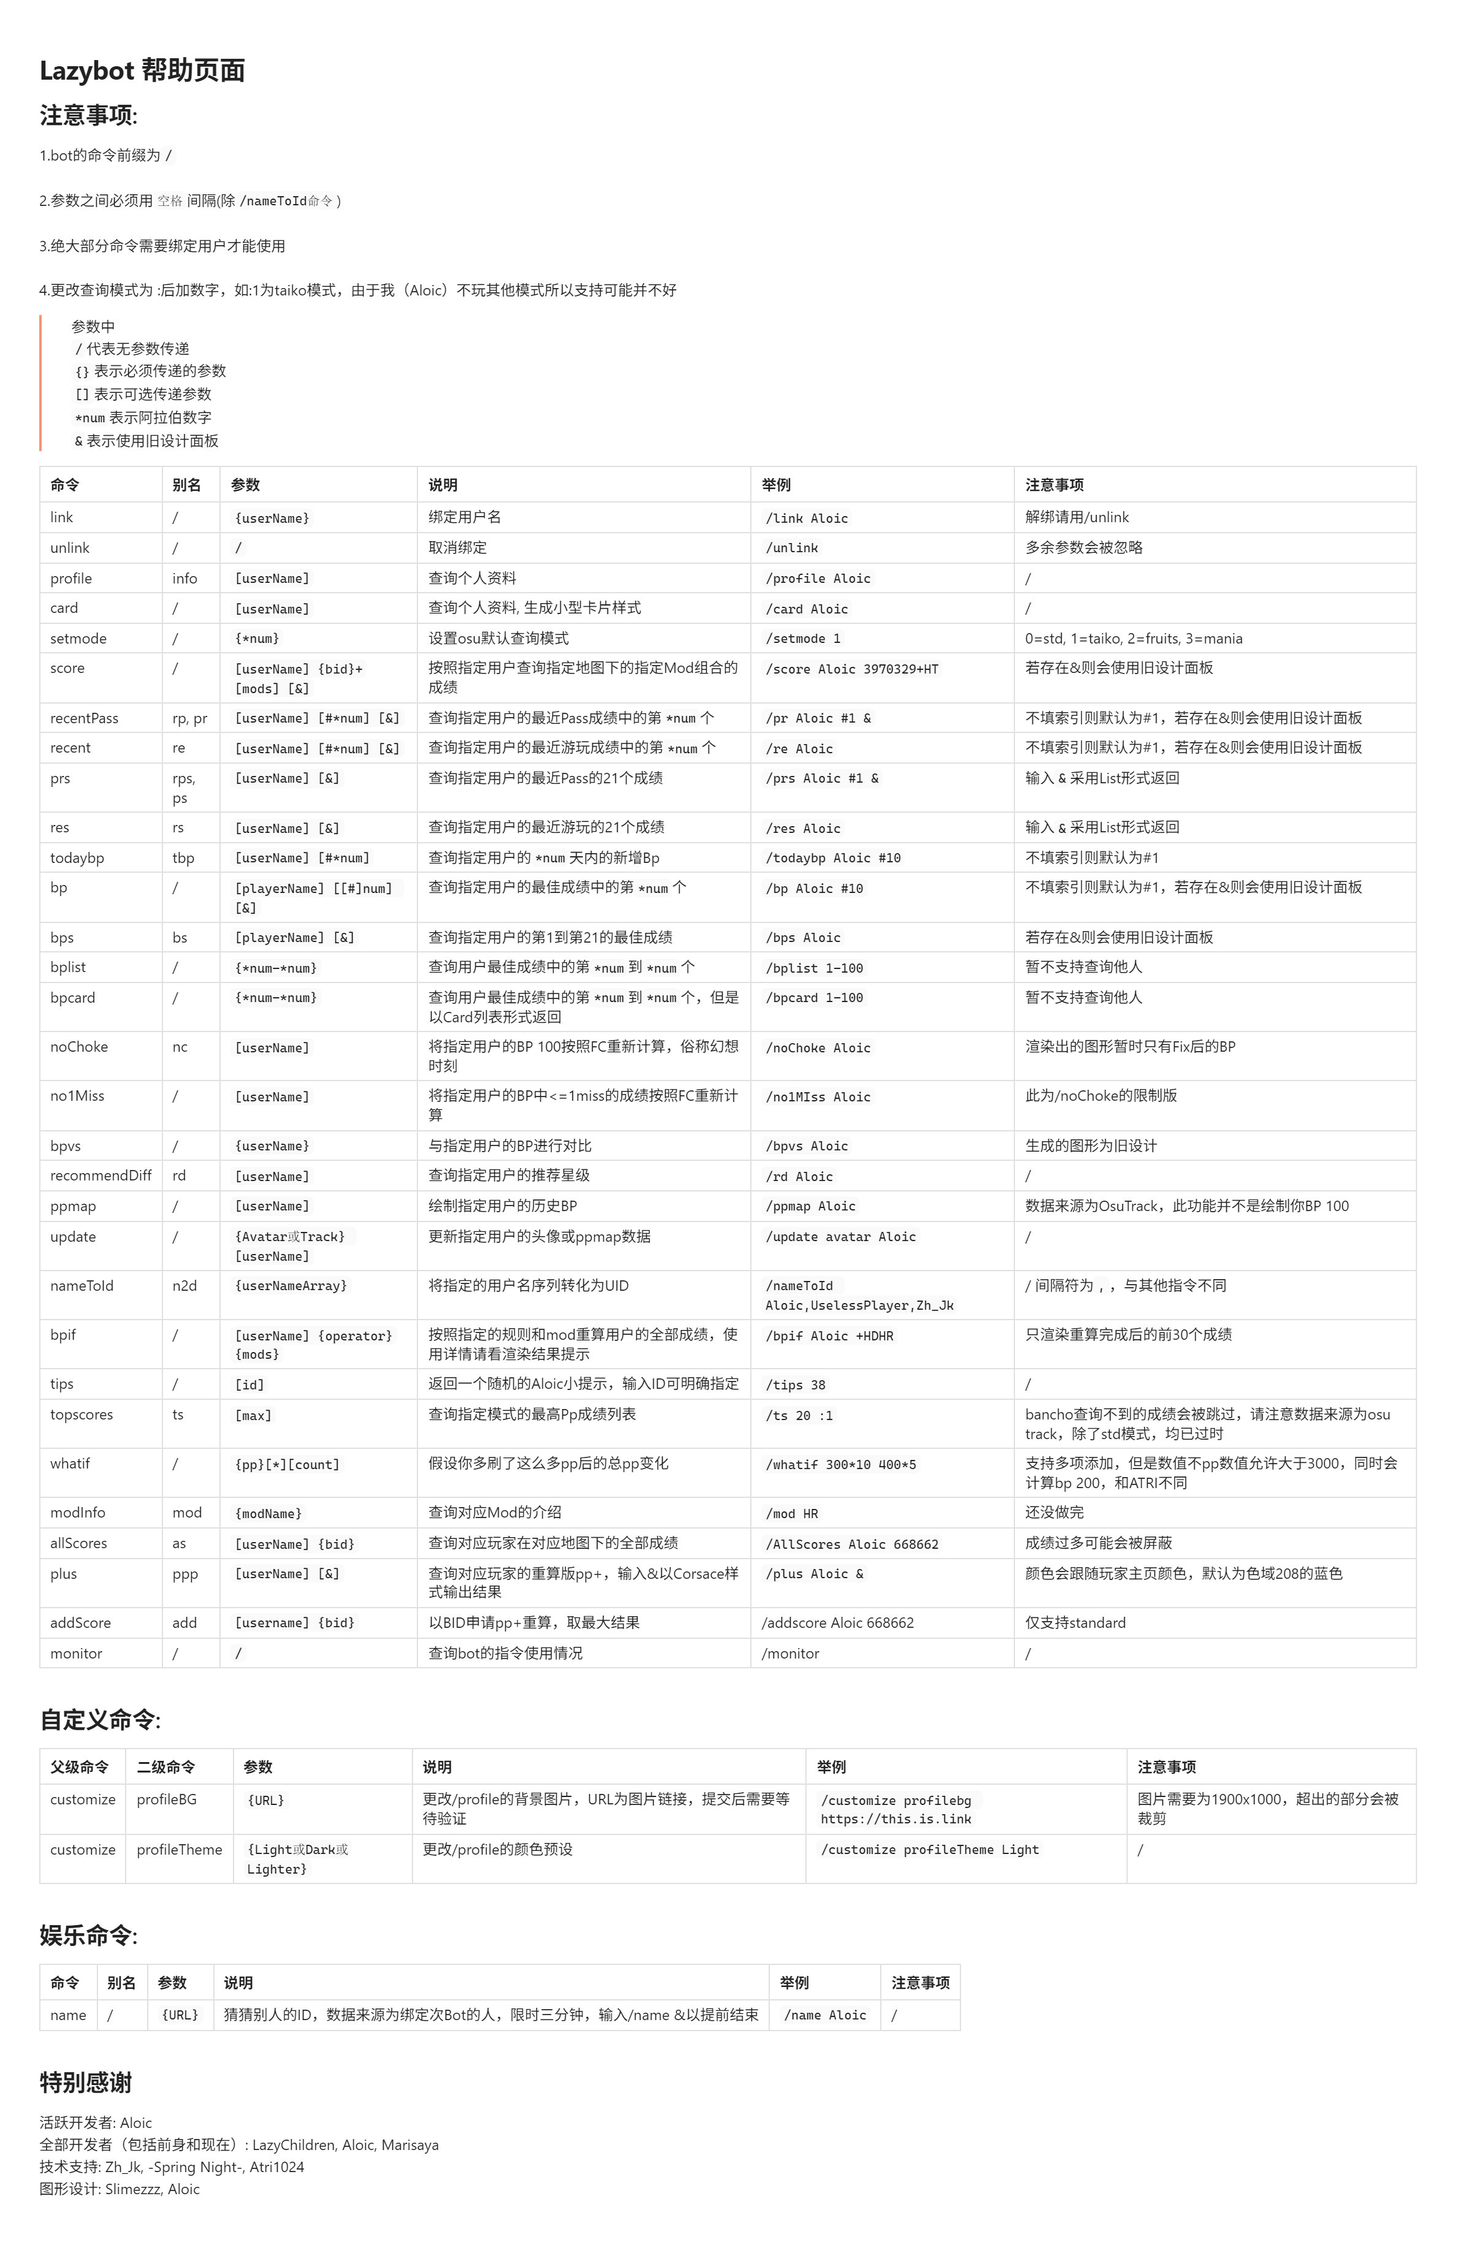
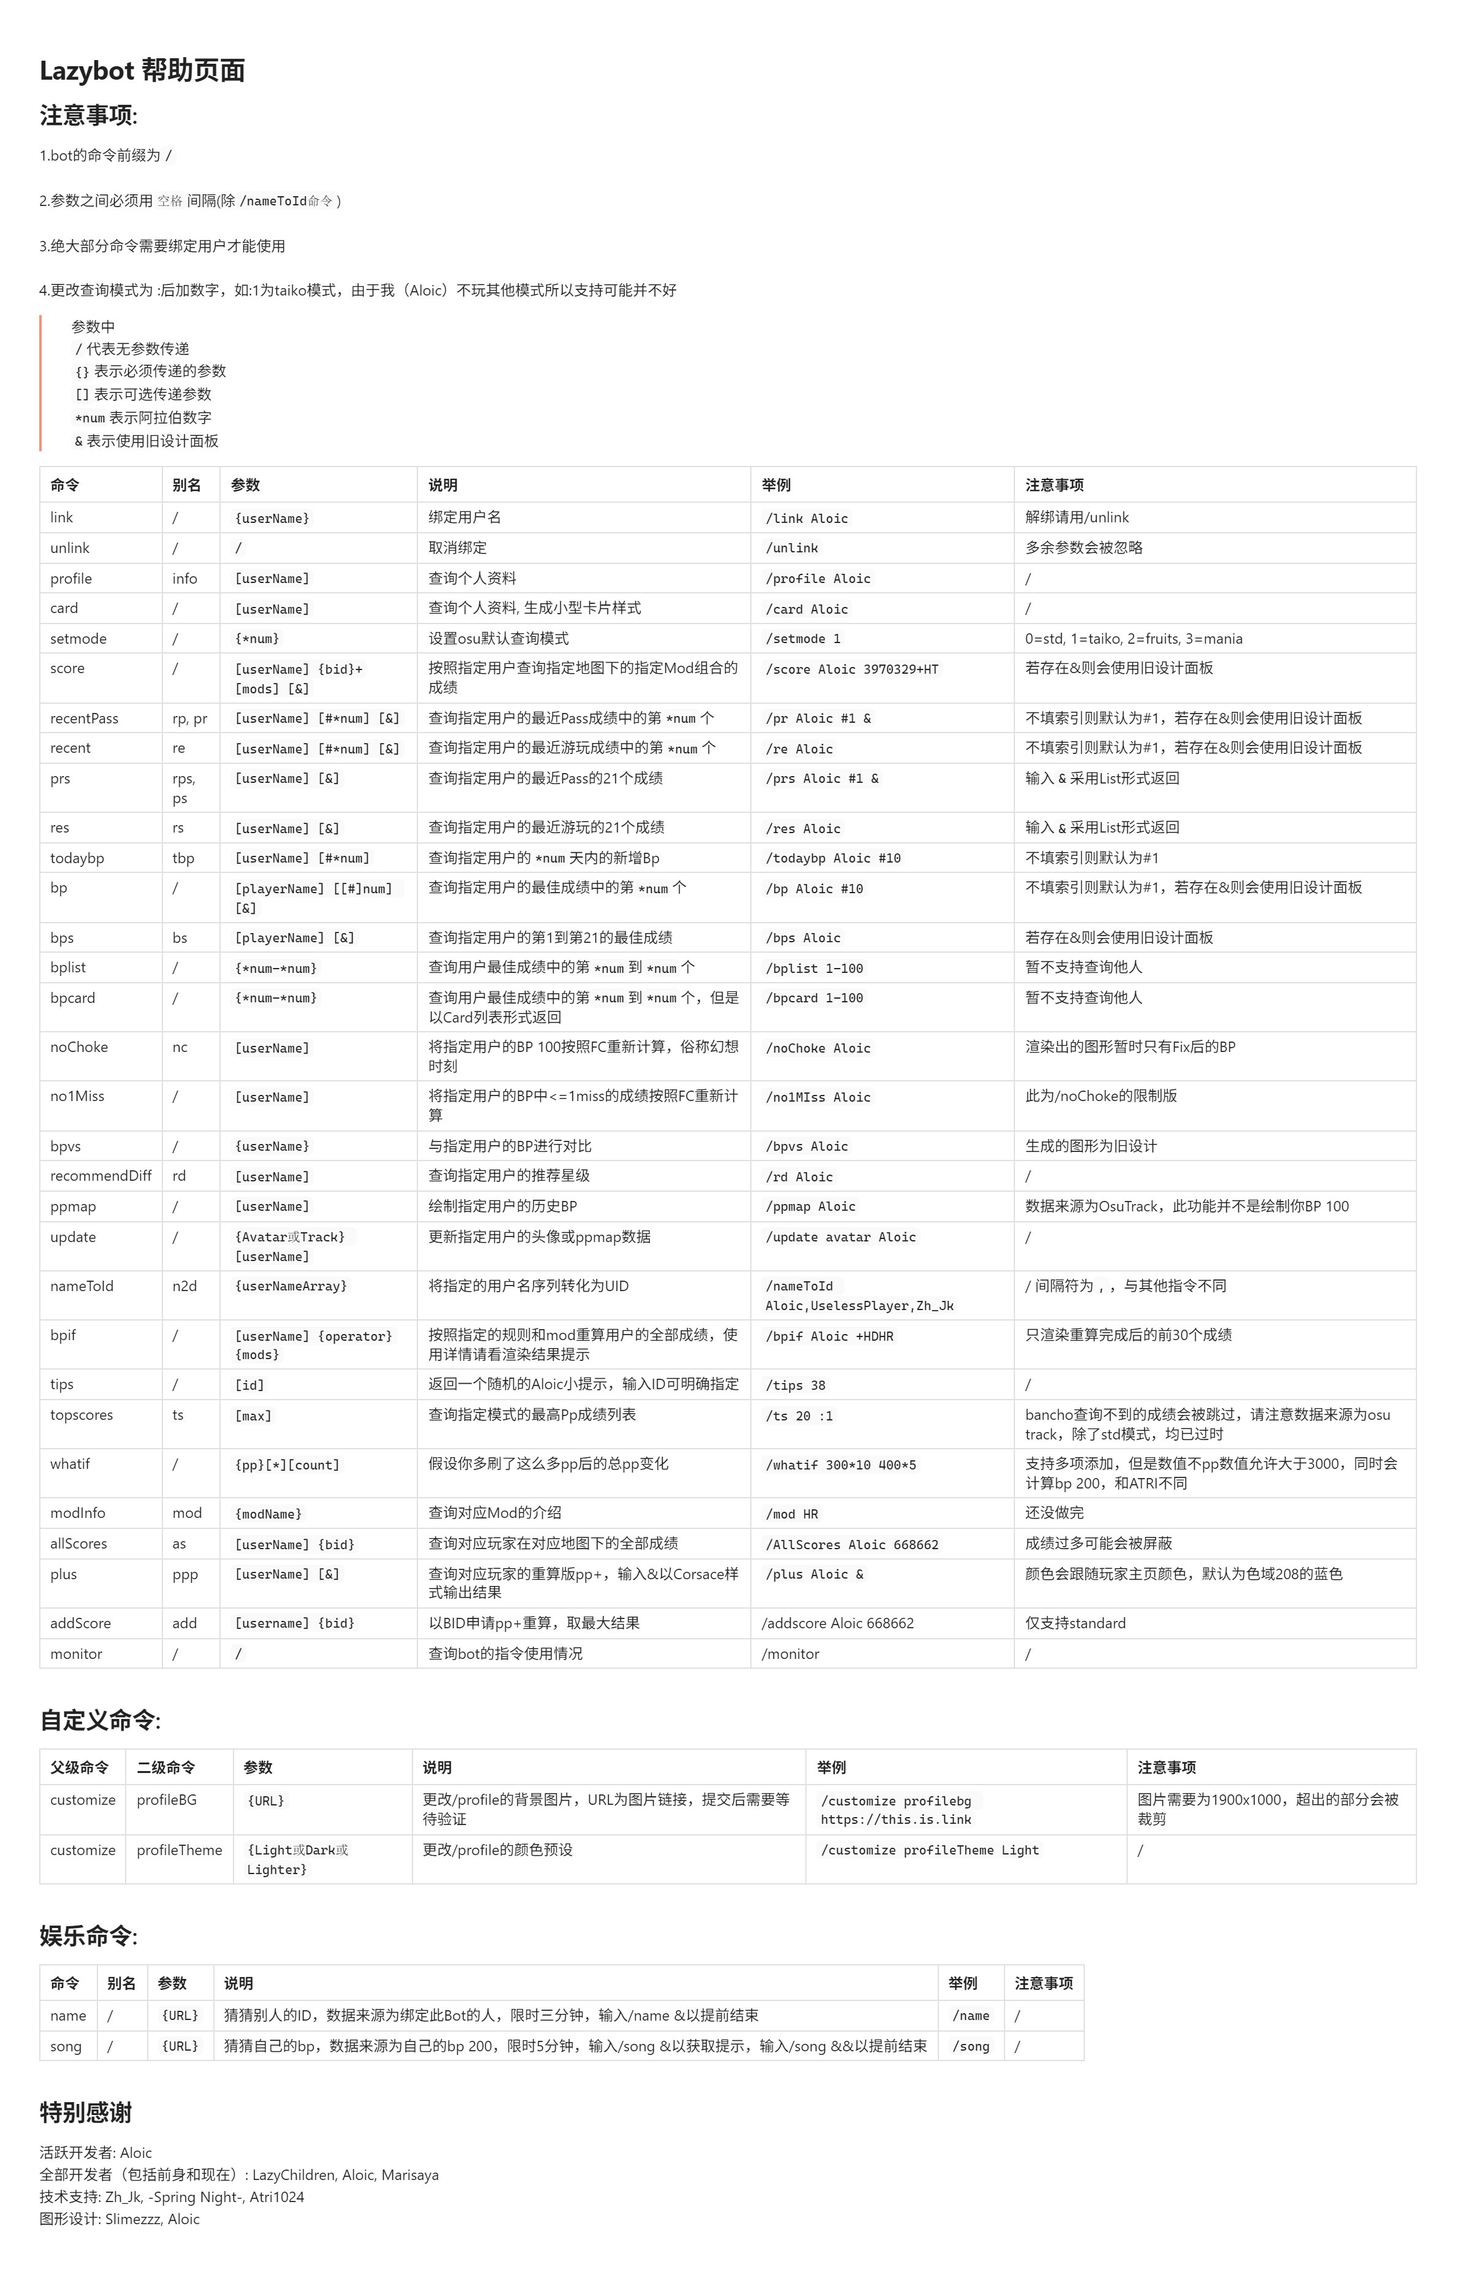
optimized /song , added fuzzyMatch and result full image support

diff --git a/src/main/java/me/aloic/lazybot/command/fun/SongGuessCommand.java b/src/main/java/me/aloic/lazybot/command/fun/SongGuessCommand.java
@@ -4,21 +4,25 @@ import com.mikuac.shiro.core.Bot;
 import jakarta.annotation.Resource;
 import me.aloic.lazybot.annotation.LazybotCommandMapping;
 import me.aloic.lazybot.command.LazybotSlashCommand;
-import me.aloic.lazybot.component.CommandDatabaseProxy;
 import me.aloic.lazybot.component.TestOutputTool;
-import me.aloic.lazybot.entity.GameWithTime;
 import me.aloic.lazybot.entity.SongGuessWithTime;
 import me.aloic.lazybot.exception.LazybotRuntimeException;
 import me.aloic.lazybot.osu.dao.entity.dto.lazybot.LazybotSongGuessData;
 import me.aloic.lazybot.osu.dao.entity.po.AccessTokenPO;
 import me.aloic.lazybot.osu.dao.mapper.TokenMapper;
 import me.aloic.lazybot.osu.service.FunService;
+import me.aloic.lazybot.osu.utils.AssertDownloadUtil;
 import me.aloic.lazybot.parameter.GeneralParameter;
 import me.aloic.lazybot.shiro.event.LazybotSlashCommandEvent;
 import me.aloic.lazybot.util.ImageUploadUtil;
 import net.dv8tion.jda.api.events.interaction.command.SlashCommandInteractionEvent;
 import org.springframework.stereotype.Component;
 
+import javax.imageio.ImageIO;
+import java.awt.image.BufferedImage;
+import java.io.ByteArrayOutputStream;
+import java.io.File;
+import java.io.IOException;
 import java.time.Duration;
 import java.time.LocalDateTime;
 import java.util.*;
@@ -33,7 +37,7 @@ public class SongGuessCommand implements LazybotSlashCommand
     @Resource
     private FunService funService;
     @Resource
-    private CommandDatabaseProxy proxy;
+    private TokenMapper tokenMapper;
     private final ConcurrentHashMap<Long, SongGuessWithTime> existingGameMap = new ConcurrentHashMap<>();
 
     private static final Duration TIMEOUT = Duration.ofMinutes(5);
@@ -48,15 +52,15 @@ public class SongGuessCommand implements LazybotSlashCommand
     @Override
     public void execute(Bot bot, LazybotSlashCommandEvent event) throws Exception
     {
-        Long identity = event.getMessageEvent().getSender().getUserId();
-        AccessTokenPO tokenPO=proxy.getAccessToken(event);
+        Long identity = event.getMessageEvent().getGroupId();
+        AccessTokenPO tokenPO = tokenMapper.selectRandom();
         if (existingGameMap.get(identity) == null)
         {
             LazybotSongGuessData songGuessData = funService.songGuessImage(GeneralParameter.setupParameter(event,tokenPO));
             existingGameMap.put(identity, songGuessData.getMeta());
             ImageUploadUtil.uploadImageToOnebotWithText(bot,event,
                     songGuessData.getImg(),
-                    "取自"+tokenPO.getPlayer_name()+"的bp200");
+                    "[Lazybot] 取自"+tokenPO.getPlayer_name()+"的bp200\n缩放等级:" + songGuessData.getResizeLevel());
         }
         else
         {
@@ -71,9 +75,22 @@ public class SongGuessCommand implements LazybotSlashCommand
                         "取自"+tokenPO.getPlayer_name()+"的bp200");
             }
             else if (event.getScorePanelVersion()==0) {
-                if (event.getCommandParameters() == null) throw new LazybotRuntimeException("[Lazybot] 请输入文本");
+                if (event.getCommandParameters() == null || event.getCommandParameters().isEmpty()) throw new LazybotRuntimeException("[Lazybot] 请输入文本");
                 String guessed = String.join(" ", event.getCommandParameters());
-                bot.sendGroupMsg(event.getMessageEvent().getGroupId(), checkGuessed(guessed,original,identity),false);
+                if (isFuzzyMatch(original.getTitle(), guessed,0.3)) {
+                    existingGameMap.remove(identity);
+                   try{
+                       BufferedImage fullsize = ImageIO.read(new File(AssertDownloadUtil.svgAbsolutePath(original.getSid())));
+                       ImageUploadUtil.uploadImageToOnebotWithText(bot,event,toByteArray(fullsize,"jpg"),
+                               "[Lazybot] 回答正确，答案为: " + original.getTitle() +"\nBID: " + original.getBid());
+                   }
+                   catch (Exception e){
+                       throw new LazybotRuntimeException("[Lazybot] 加载歌曲图片时出错");
+                   }
+                }
+                else {
+                    bot.sendGroupMsg(event.getMessageEvent().getGroupId(),"[Lazybot] 回答错误,输入/song &以获取提示，输出/song &&以提前结束",false);
+                }
             }
             else if (event.getScorePanelVersion()==1){
                 int rand=new Random().nextInt(2);
@@ -82,7 +99,14 @@ public class SongGuessCommand implements LazybotSlashCommand
             }
             else {
                 existingGameMap.remove(identity);
-                bot.sendGroupMsg(event.getMessageEvent().getGroupId(), "[Lazybot] 正确答案为: " + original.getTitle() +"\n曲师: " + original.getArtist() +"\nBID: " + original.getBid(),false);
+                try{
+                    BufferedImage fullsize = ImageIO.read(new File(AssertDownloadUtil.svgAbsolutePath(original.getSid())));
+                    ImageUploadUtil.uploadImageToOnebotWithText(bot,event,toByteArray(fullsize,"jpg"),
+                            "[Lazybot] 回答正确，答案为: " + original.getTitle() +"\nBID: " + original.getBid());
+                }
+                catch (Exception e){
+                    throw new LazybotRuntimeException("[Lazybot] 加载歌曲图片时出错");
+                }
             }
         }
 
@@ -93,27 +117,40 @@ public class SongGuessCommand implements LazybotSlashCommand
     public void execute(LazybotSlashCommandEvent event) throws Exception
     {
         Long identity = 1524185356L;
-        AccessTokenPO tokenPO=proxy.getAccessToken(event);
+        AccessTokenPO tokenPO = tokenMapper.selectRandom();
         if (existingGameMap.get(identity) == null)
         {
             LazybotSongGuessData songGuessData = funService.songGuessImage(GeneralParameter.setupParameter(event,tokenPO));
             existingGameMap.put(identity, songGuessData.getMeta());
-            testOutputTool.saveImageAndTextToLocal(songGuessData.getImg(), "[Lazybot] 取自"+tokenPO.getPlayer_name()+"的bp200");
+            testOutputTool.saveImageAndTextToLocal(songGuessData.getImg(), "[Lazybot] 取自"+tokenPO.getPlayer_name()+"的bp200\n缩放等级:" + songGuessData.getResizeLevel());
         }
         else
         {
             SongGuessWithTime original = existingGameMap.get(identity);
             if (Duration.between(original.getStartTime(), LocalDateTime.now()).compareTo(TIMEOUT) > 0) {
-                testOutputTool.writeStringToFile("[Lazybot] 已提前终止，正确答案为" + original.getTitle());
+                testOutputTool.writeStringToFile("[Lazybot] 时间到，正确答案为" + original.getTitle());
                 existingGameMap.remove(identity);
                 LazybotSongGuessData songGuessData = funService.songGuessImage(GeneralParameter.setupParameter(event,tokenPO));
                 existingGameMap.put(identity, songGuessData.getMeta());
                 testOutputTool.saveImageAndTextToLocal(songGuessData.getImg(), "[Lazybot] 取自"+tokenPO.getPlayer_name()+"的bp200");
             }
             else if (event.getScorePanelVersion()==0) {
-                if (event.getCommandParameters() == null) throw new LazybotRuntimeException("[Lazybot] 请输入文本");
+                if (event.getCommandParameters() == null || event.getCommandParameters().isEmpty()) throw new LazybotRuntimeException("[Lazybot] 请输入文本");
                 String guessed = String.join(" ", event.getCommandParameters());
-                testOutputTool.writeStringToFile(checkGuessed(guessed,original,identity));
+                if (isFuzzyMatch(original.getTitle(),guessed,0.3)) {
+                    existingGameMap.remove(identity);
+                    try{
+                        BufferedImage fullSize = ImageIO.read(new File(AssertDownloadUtil.svgAbsolutePath(original.getSid())));
+                        testOutputTool.saveImageAndTextToLocal(toByteArray(fullSize,"jpg"),
+                                "[Lazybot] 回答正确，答案为: " + original.getTitle() +"\nBID: " + original.getBid());
+                    }
+                    catch (Exception e){
+                        throw new LazybotRuntimeException("[Lazybot] 加载歌曲图片时出错");
+                    }
+                }
+                else {
+                    testOutputTool.writeStringToFile("[Lazybot] 回答错误,输入/song &以获取提示，输出/song &&以提前结束");
+                }
             }
             else if (event.getScorePanelVersion()==1){
                 int rand=new Random().nextInt(2);
@@ -122,7 +159,14 @@ public class SongGuessCommand implements LazybotSlashCommand
             }
             else {
                 existingGameMap.remove(identity);
-                testOutputTool.writeStringToFile("[Lazybot] 正确答案为: " + original.getTitle() +"\nBID: " + original.getBid() + original.getArtist());
+                try{
+                    BufferedImage fullsize = ImageIO.read(new File(AssertDownloadUtil.svgAbsolutePath(original.getSid())));
+                    testOutputTool.saveImageAndTextToLocal(toByteArray(fullsize,"jpg"),
+                            "[Lazybot] 回答正确，答案为: " + original.getTitle() +"\nBID: " + original.getBid());
+                }
+                catch (Exception e){
+                    throw new LazybotRuntimeException("[Lazybot] 加载歌曲图片时出错");
+                }
             }
         }
 
@@ -131,15 +175,45 @@ public class SongGuessCommand implements LazybotSlashCommand
     private String checkGuessed(String guessed, SongGuessWithTime original, Long identity)
     {
         if (original == null) throw new LazybotRuntimeException("[Lazybot] 还没有正在进行的游戏呢，请输入/song新建游戏");
-        if (guessed.toLowerCase().trim().equals(original.getTitle().toLowerCase().trim()))
+        if (isFuzzyMatch(guessed,original.getTitle(),0.35))
         {
             existingGameMap.remove(identity);
-            return "[Lazybot] 正确答案为: " + original.getTitle() +"\nBID: " + original.getBid();
+            return "[Lazybot] 回答正确，答案为: " + original.getTitle() +"\nBID: " + original.getBid();
         }
         else {
             return "[Lazybot] 回答错误,输入/song &以获取提示，输出/song &&以提前结束";
         }
     }
 
+    public static boolean isFuzzyMatch(String original, String input, double thresholdRatio) {
+        if (original == null || input == null) return false;
+        String cleanOriginal = original.toLowerCase().replaceAll("\\s+", "");
+        String cleanInput = input.toLowerCase().replaceAll("\\s+", "");
+        int matchLength = longestCommonSubsequence(cleanOriginal, cleanInput);
+        int threshold = (int) Math.ceil(cleanOriginal.length() * thresholdRatio);
+        return matchLength >= threshold;
+    }
+
+    public static int longestCommonSubsequence(String a, String b) {
+        int[][] dp = new int[a.length() + 1][b.length() + 1];
+
+        for (int i = 1; i <= a.length(); i++) {
+            for (int j = 1; j <= b.length(); j++) {
+                if (a.charAt(i - 1) == b.charAt(j - 1)) {
+                    dp[i][j] = dp[i - 1][j - 1] + 1;
+                } else {
+                    dp[i][j] = Math.max(dp[i - 1][j], dp[i][j - 1]);
+                }
+            }
+        }
+        return dp[a.length()][b.length()];
+    }
+    private static byte[] toByteArray(BufferedImage image, String format) throws IOException
+    {
+        ByteArrayOutputStream baos = new ByteArrayOutputStream();
+        ImageIO.write(image, format, baos);
+        return baos.toByteArray();
+    }
 
 }
+

diff --git a/src/main/java/me/aloic/lazybot/osu/service/ServiceImpl/FunServiceImpl.java b/src/main/java/me/aloic/lazybot/osu/service/ServiceImpl/FunServiceImpl.java
@@ -144,17 +144,20 @@ public class FunServiceImpl implements FunService
                 index,
                 params.getMode());
         if (scoreDTO==null || scoreDTO.isEmpty()) {
-            throw new LazybotRuntimeException("[Lazybot] 小孩子bp没打满200个不准玩");
+            throw new LazybotRuntimeException("[Lazybot] 请重试，查询的用户bp未满200");
         }
         ScoreLazerDTO score = scoreDTO.getFirst();
         result.setMeta(new SongGuessWithTime(
                 score.getBeatmapset().getTitle(),
                 score.getBeatmapset().getCreator(),
                 score.getBeatmapset().getArtist(),
-                score.getBeatmap_id()));
+                score.getBeatmap_id(),
+                score.getBeatmap().getBeatmapset_id()));
         try{
             String urlOfBG =  AssertDownloadUtil.svgAbsolutePath(score.getBeatmap().getBeatmapset_id());
-            BufferedImage original = cropImage(ImageIO.read(new File(urlOfBG)),5);
+            int resize = new Random().nextInt(5) + 1;
+            BufferedImage original = cropImage(ImageIO.read(new File(urlOfBG)),resize);
+            result.setResizeLevel(resize);
             result.setImg(toByteArray(original,"jpg"));
             return result;
         }

diff --git a/src/main/java/me/aloic/lazybot/entity/SongGuessWithTime.java b/src/main/java/me/aloic/lazybot/entity/SongGuessWithTime.java
@@ -14,16 +14,18 @@ public class SongGuessWithTime
     private final String mapper;
     private final String artist;
     private final Integer bid;
+    private final Integer sid;
 
 
     private final LocalDateTime startTime;
 
-    public SongGuessWithTime(String title, String mapper, String artist, Integer bid) {
+    public SongGuessWithTime(String title, String mapper, String artist, Integer bid, Integer sid) {
         this.title = title;
         this.mapper = mapper;
         this.artist = artist;
         this.startTime = LocalDateTime.now();
         this.bid = bid;
+        this.sid = sid;
     }
 
 }

diff --git a/src/main/java/me/aloic/lazybot/osu/dao/entity/dto/lazybot/LazybotSongGuessData.java b/src/main/java/me/aloic/lazybot/osu/dao/entity/dto/lazybot/LazybotSongGuessData.java
@@ -8,4 +8,5 @@ public class LazybotSongGuessData
 {
     private SongGuessWithTime meta;
     private byte[] img;
+    private int resizeLevel;
 }
